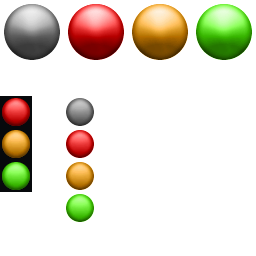
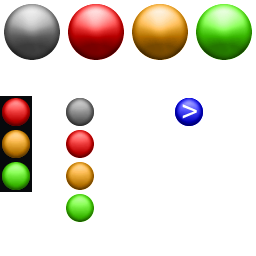
Added pretty light for automark.

Changed region(s): [[0.6875, 0.375, 0.8125, 0.5]]

diff --git a/css/slide.css b/css/slide.css
@@ -153,8 +153,12 @@ input.ls_lightsl2, input.ls_lightsl2:hover, input.ls_lightsl2:focus {
 	background-position: 0px -128px;
 }
 
-input.ls_lightsl3, input.ls_lightsl3:hover, input.ls_lightsl1:focus {
+input.ls_lightsl3, input.ls_lightsl3:hover, input.ls_lightsl3:focus {
 	background-position: 0px -160px;
+}
+
+input.ls_lightsl4, input.ls_lightsl4:hover, input.ls_lightsl4:focus {
+	background-position: -173px -96px;
 }
 
 ul.ls_loginmenu {

diff --git a/js/ls.js b/js/ls.js
@@ -192,7 +192,6 @@
         if (response == 4) {
             response = 3;
             for (var field in obj) {
-                alert(field);
                 if (lsAnswers[field]) {
                     if (lsAnswers[field] !== obj[field]) {
                         response = 1;
